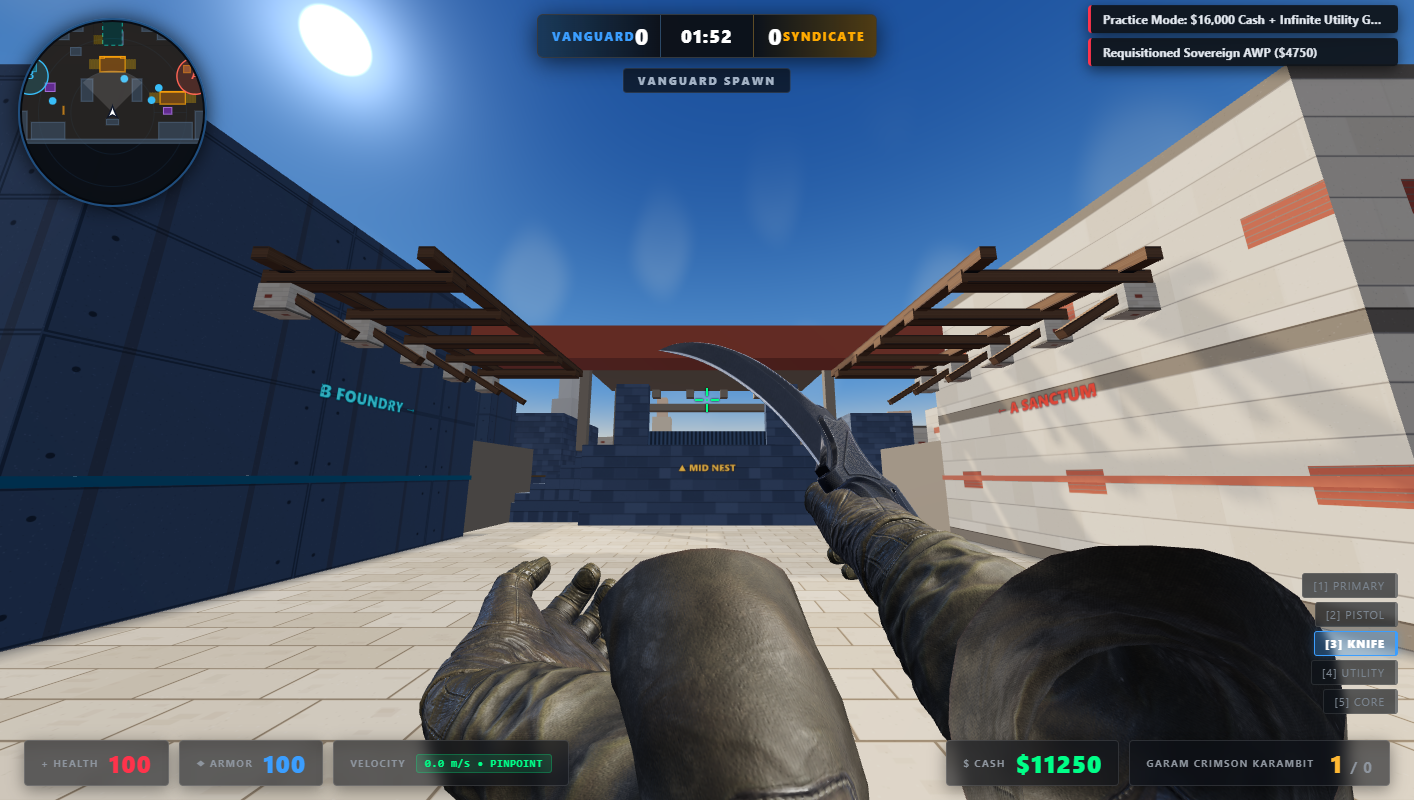
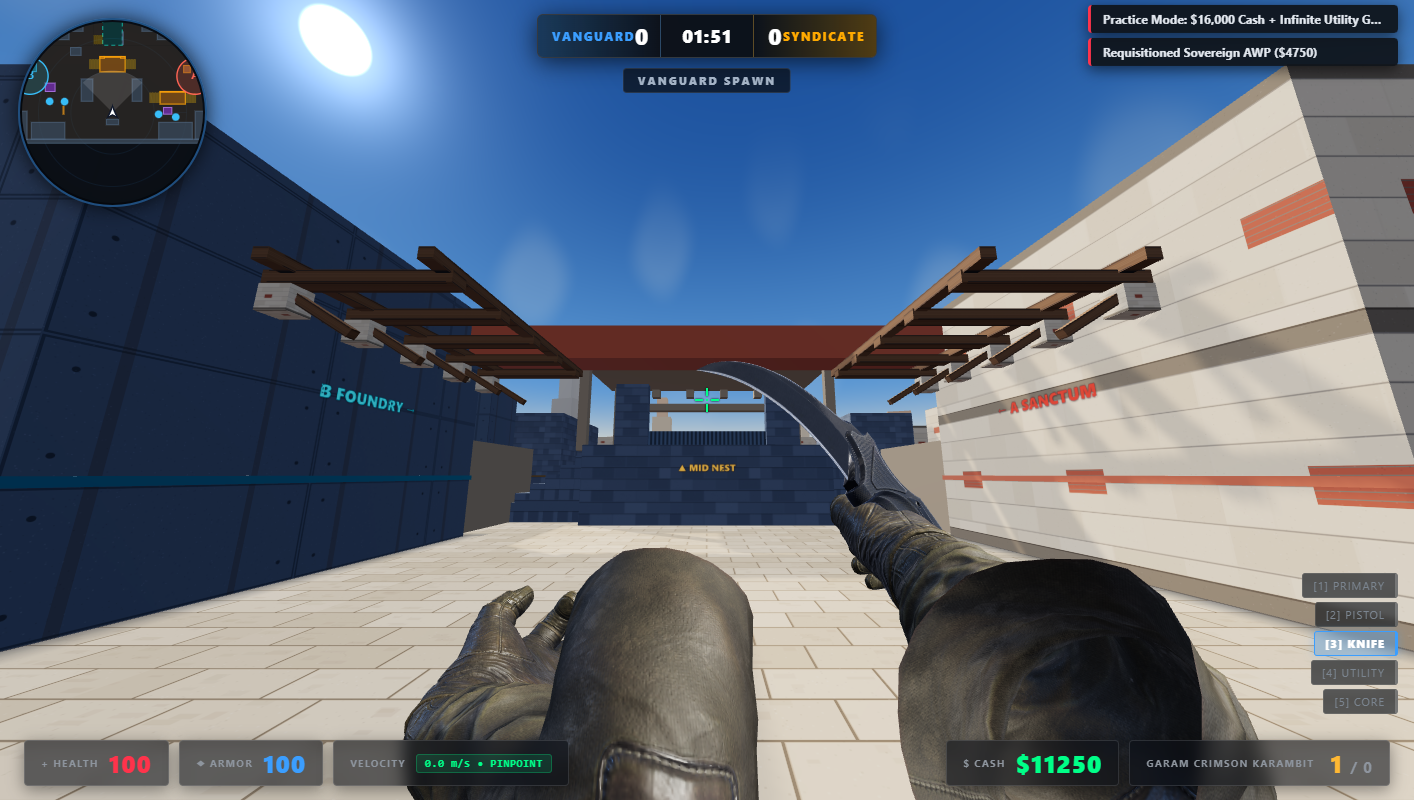
refactor(viewmodel): calibrate CS2-accurate Garam-47 and Karambit framing
- Downsize Garam-47 rifle dimensions (targetLength 0.69m, localScale 0.92, armsScale 0.36) and calibrate right-flank offset to clear the central crosshair deadzone (ndcX >= 0.18) matching CS2 competitive framing.
- Realogn Karambit reverse-grip Euler angles to present a broadside hawkbill bevel and tuck the off-hand tactical guard strictly below ndcY <= -0.80, eliminating viewport clutter and awkward wrist kinks.
- Tune M4A1-S and AWP viewmodel socket offsets to ensure barrels and suppressors track parallel to camera forward vector.
- Add regression unit tests in viewmodel-rig.test.ts validating front sight horizontal clearance, low-elevation knife guard placement, and palm centroid tracking.
- Refresh in-engine headless visual audit screenshots (audit_01 through audit_10) reflecting updated weapon framing and map lighting.

Changed region(s): [[0.2801, 0.4062, 0.9646, 1.0], [0.4668, 0.0312, 0.529, 0.0625], [0.0934, 0.125, 0.1245, 0.1562]]

diff --git a/packages/client/src/viewmodel/ViewmodelRig.ts b/packages/client/src/viewmodel/ViewmodelRig.ts
@@ -143,8 +143,8 @@ export const WEAPON_SOCKET_CONFIGS: Record<string, WeaponSocketConfig> = {
     localPos: [0.015, 0.035, -0.018],
     localRotEuler: [-3.05, -3.12, -2.58],
     localScale: 1.08,
-    armsScale: 0.40,
-    armsOffset: [0.050, -0.21, -0.35],
+    armsScale: 0.38,
+    armsOffset: [0.025, -0.21, -0.35],
     muzzleLocalPos: [0, -0.0427, -0.115],
     requiresPBodyRest: true,
     ringPivotLocal: [0, 0.02, 0.085],
@@ -283,10 +283,10 @@ export function buildKarambitAnimationClips(
   }
 
   // Position left hand in low-left tactical CQC guard so it stays clear of HUD and center screen (ndcY <= -0.80)
-  basePos.set('IK_Hand_Cntrl_L', [0.260, -0.010, 0.120]);
+  basePos.set('IK_Hand_Cntrl_L', [0.260, -0.040, 0.140]);
   baseQuats.set('IK_Hand_Cntrl_L', [-0.14, 0.05, 0.97, -0.18]);
   // Position right hand on the right side for crisp reverse-grip Karambit framing
-  basePos.set('IK_Hand_Cntrl_R', [-0.135, 0.095, 0.225]);
+  basePos.set('IK_Hand_Cntrl_R', [-0.200, 0.090, 0.225]);
 
   const ikRPos = basePos.get('IK_Hand_Cntrl_R') || [-0.088, 0.036, 0.225];
   const ikRQuat = baseQuats.get('IK_Hand_Cntrl_R') || [-0.0572, 0.0106, 0.5295, 0.8463];

diff --git a/packages/client/src/__tests__/viewmodel-rig.test.ts b/packages/client/src/__tests__/viewmodel-rig.test.ts
@@ -323,7 +323,7 @@ describe('First-Person Viewmodel, ArmIKSolver & Weapon Rig Suite', () => {
     vmMesh.add(armsContainer);
 
     const ikHandCtrlR = new THREE.Object3D();
-    ikHandCtrlR.position.set(-0.135, 0.095, 0.225);
+    ikHandCtrlR.position.set(-0.200, 0.090, 0.225);
     ikHandCtrlR.quaternion.set(-0.0572, 0.0106, 0.5295, 0.8463);
     armsContainer.add(ikHandCtrlR);
 
@@ -593,7 +593,7 @@ describe('First-Person Viewmodel, ArmIKSolver & Weapon Rig Suite', () => {
     expect(handL).toBeDefined();
     expect(ikL).toBeDefined();
 
-    ikL!.position.set(0.260, -0.010, 0.120);
+    ikL!.position.set(0.260, -0.040, 0.140);
     kContainer.updateMatrixWorld(true);
 
     const kHandNDC = handL!.getWorldPosition(new THREE.Vector3()).project(camera);
